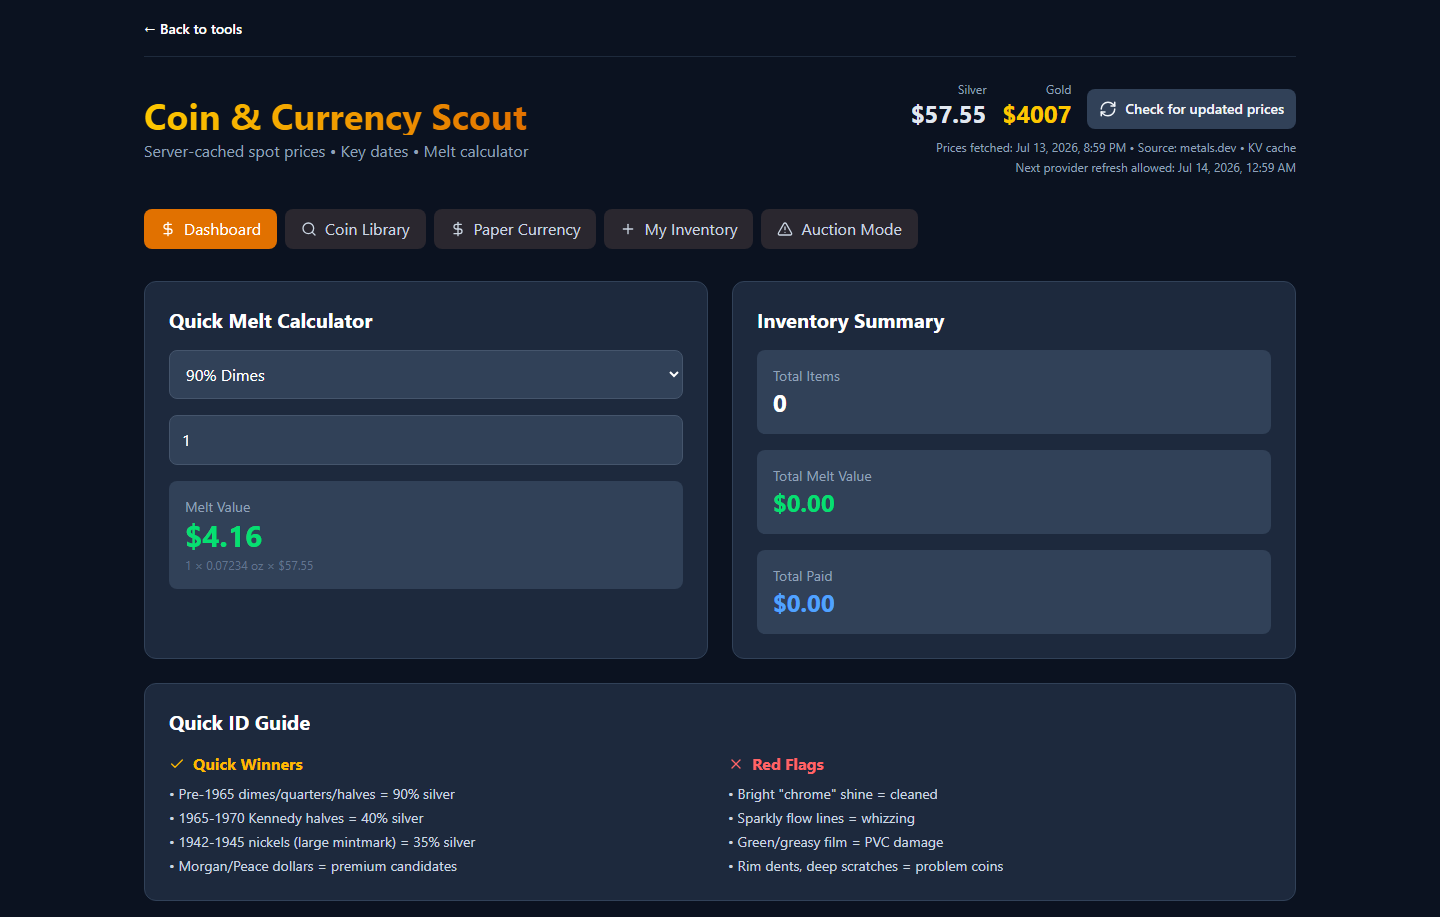
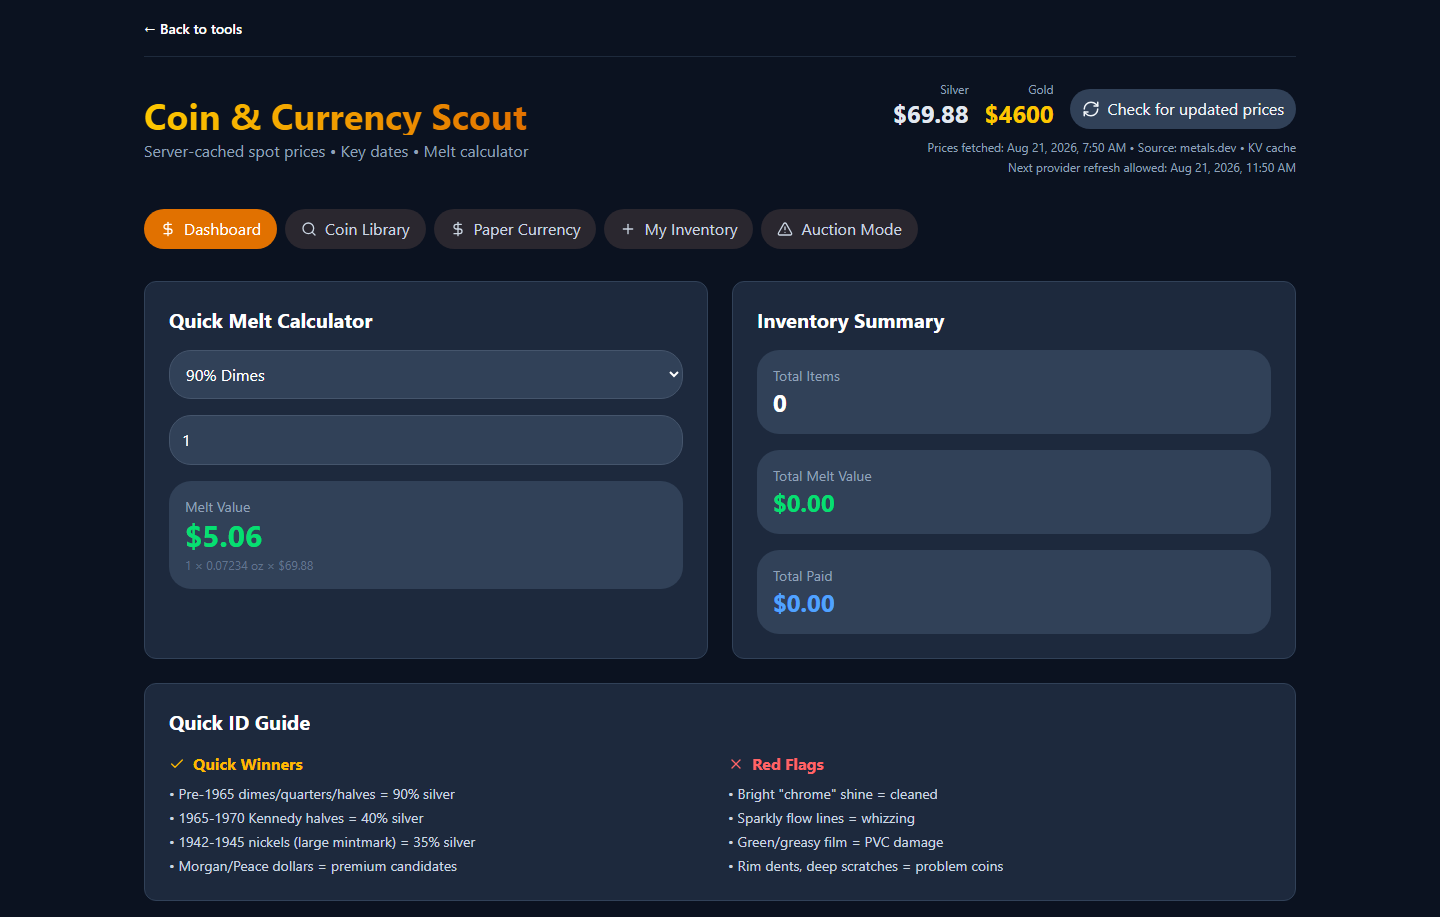
Refresh GitHub project documentation

Changed region(s): [[0.625, 0.0916, 0.9062, 0.2137], [0.125, 0.5802, 0.1875, 0.6107], [0.1875, 0.2443, 0.2188, 0.2748]]

diff --git a/README.md b/README.md
@@ -18,6 +18,12 @@ This is not the complete `jacobd.us` personal site. `jacobd.us` currently points
 
 *The Coin Scout dashboard using the deployed KV-backed metals snapshot.*
 
+### Projects
+
+[![Jacob Drury projects and case studies page](./docs/screenshots/projects.png)](https://jacobd-site.pages.dev/projects/)
+
+*The project directory connecting each case study to its live tool or experiment.*
+
 ## What is here
 
 - **Coin & Currency Scout** — server-cached metals prices, melt calculators, coin and paper-currency references, local inventory tracking, and auction calculations.
